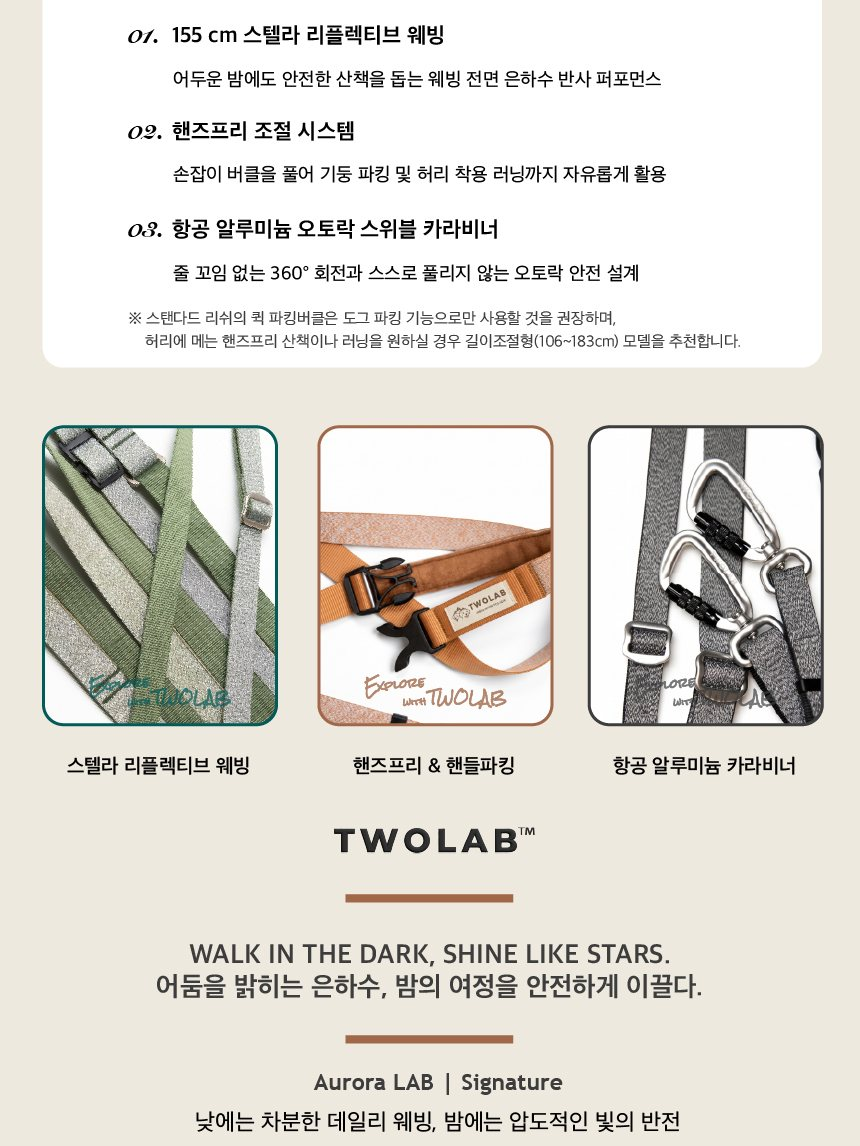
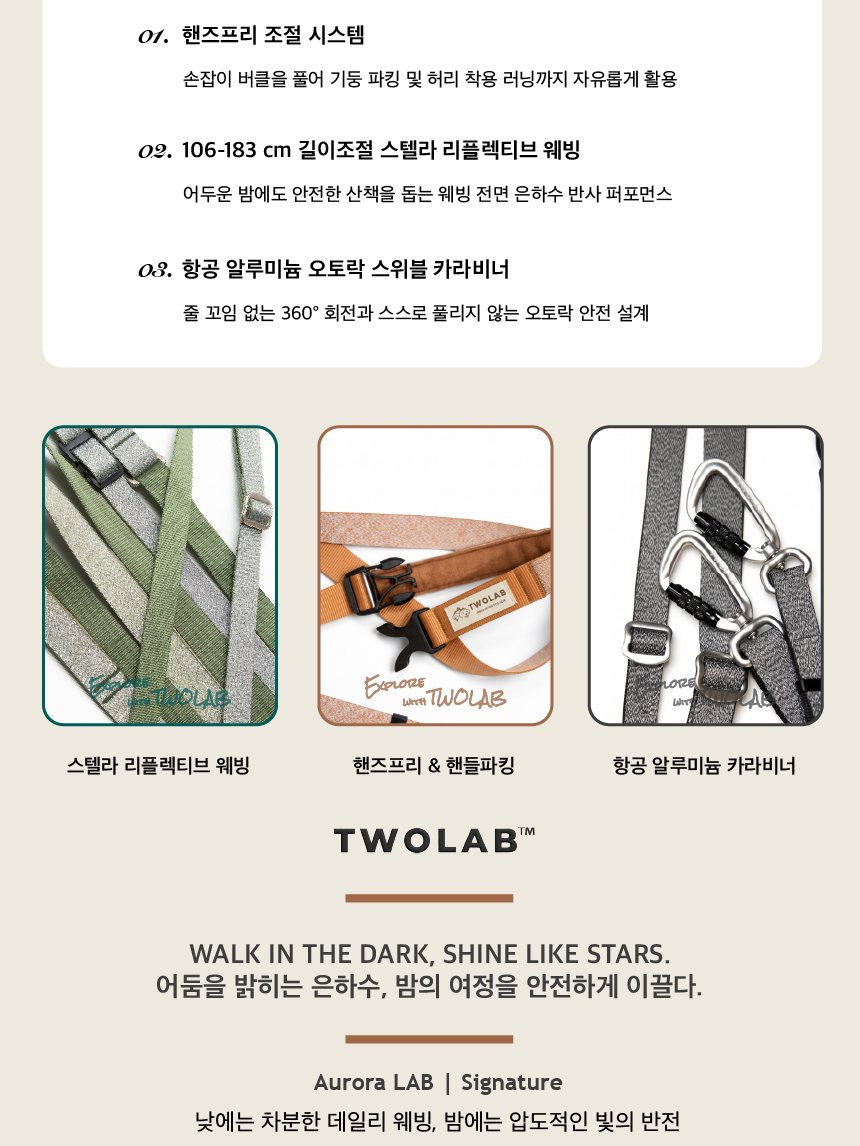
Update Aurora LAB adjustable leash detail image 03
Claude-Session: https://claude.ai/code/session_01Nc59PA8yF7srNS3EbUmYTa

Changed region(s): [[0.1512, 0.0, 0.8465, 0.3054], [0.1512, 0.0305, 0.1814, 0.0611]]

diff --git a/products.html b/products.html
@@ -715,7 +715,7 @@
         alt: [
           'TWOLAB 오로라 랩 길이조절 리드줄 Aurora LAB Adjustable Leash — 밤하늘의 빛을 품은 하이엔드 테크니컬 기어',
           '컬러 Misty Green, Clay Brown, Ash Black · 낮에는 모던한 데일리 기어, 밤에는 가장 밝은 안전 가드',
-          '스텔라 리플렉티브 웹빙, 핸즈프리 조절 시스템, 항공 알루미늄 오토락 스위블 카라비너 · 핸즈프리 & 핸들파킹',
+          '핸즈프리 조절 시스템, 106-183cm 길이조절 스텔라 리플렉티브 웹빙, 항공 알루미늄 오토락 스위블 카라비너 · 핸즈프리 & 핸들파킹',
           '일반 조명과 빛 반사 비교 · 사이즈 차트 S 106-183cm 20mm 93.8g, L 106-183cm 25mm 117.3g',
           'Bred for the Outdoors, Crafted for Daily Life — 야외 착용 사진',
           '구매 금액의 1% 유기견 기부 · 소재: RPET 고강도 리사이클 폴리에스터, 알루미늄, 아세탈 · 제조국 대한민국 · 손세탁 후 그늘 건조',
